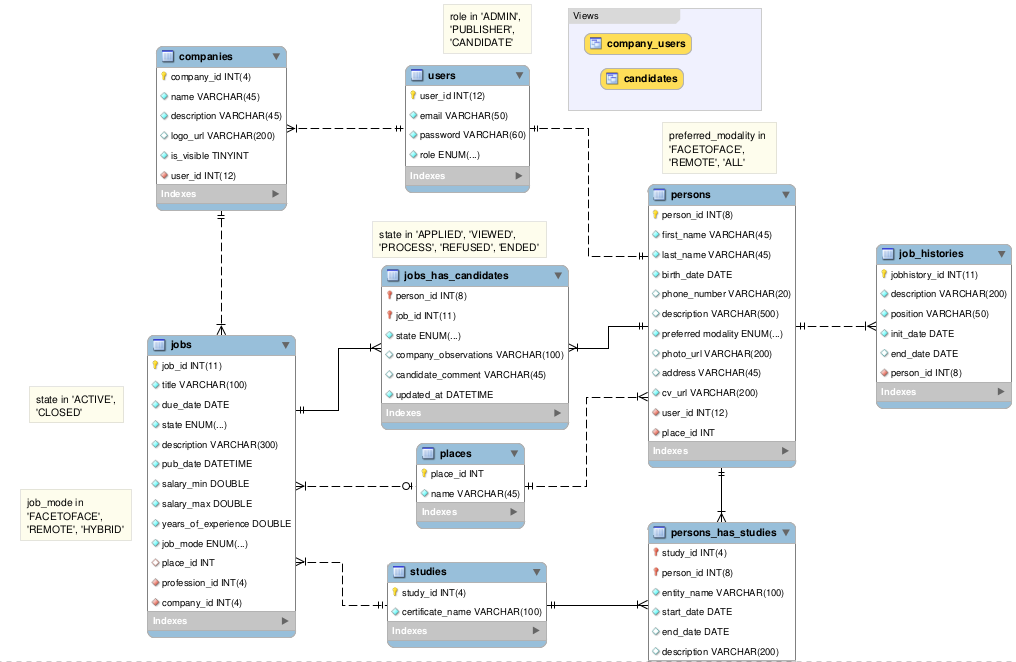
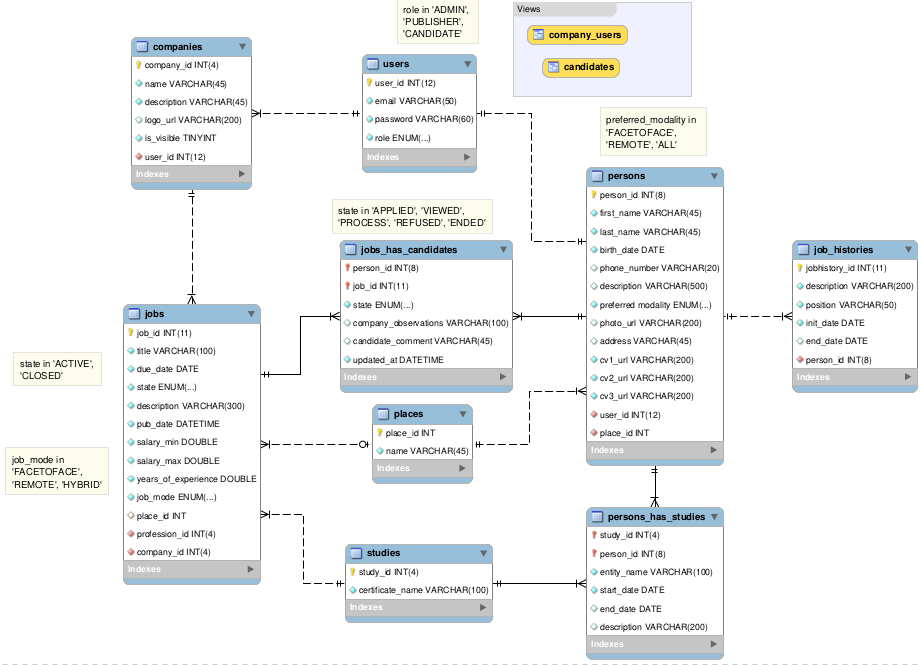
Login form and function using spring security default service

diff --git a/src/main/resources/templates/auth/login.html b/src/main/resources/templates/auth/login.html
@@ -1,0 +1,57 @@
+<!DOCTYPE html>
+<html xmlns:th="http://www.thymeleaf.org">
+<head>
+    <meta charset="UTF-8">
+    <title>Log in with your account</title>
+    <link th:rel="stylesheet" th:href="@{/webjars/bootstrap/5.3.0/css/bootstrap.min.css}" />
+    <link th:rel="stylesheet" th:href="@{/css/styles.css}" />
+</head>
+<body>
+    <nav class="navbar navbar-expand-lg bg-body-tertiary mt-2">
+        <div class="container-fluid">
+            <a class="navbar-brand" href="/">
+                <img src="/images/logoempexp.png" alt="EmpleoExprés Logo">
+            </a>
+            <button class="navbar-toggler" type="button" data-bs-toggle="collapse" data-bs-target="#navbarSupportedContent" aria-controls="navbarSupportedContent" aria-expanded="false" aria-label="Toggle navigation">
+                <span class="navbar-toggler-icon"></span>
+            </button>
+            <div class="d-flex" id="navbarSupportedContent">
+                <ul class="navbar-nav me-auto mb-2 mb-lg-0">
+                    <li class="nav-item">
+                        <a class="nav-link" aria-current="page" href="/about">Acerca de</a>
+                    </li>
+                    <li class="nav-item">
+                        <a class="nav-link" href="/search">Empleos</a>
+                    </li>
+                    <li class="nav-item">
+                        <a class="nav-link" href="/support">Soporte</a>
+                    </li>
+                    <li class="nav-item mx-2">
+                        <a class="btn btn-outline-info" href="/signin">Registrar</a>
+                    </li>
+                </ul>
+            </div>
+        </div>
+    </nav>
+    <div class="container-fluid text-bg-info p-5">
+        <div class="card text-bg-light col-md-6 my-5 offset-md-3 p-5">
+            <div class="card-body">
+                <form method="POST" th:action="@{/login}" class="my-form">
+                    <h2 class="text-center mb-3">Iniciar sesión</h2>
+                    <!-- $ variables @ links -->
+                    <div th:class="'form-group text-center'+${error != null ? ' '+'has-error' : ''}">
+                        <span class="text-primary" th:text="${message}" th:if="${message!=null}"></span>
+                        <input name="email" type="text" class="form-control mb-3" placeholder="Email" autofocus="true" />
+                        <input name="password" type="password" class="form-control mb-3" placeholder="Password" />
+                        <span class="text-danger d-block mb-3" th:text="${error}" th:if="${error!=null}"></span>
+                        <input type="hidden" th:name="${_csrf.parameterName}" th:value="${_csrf.token}" />
+                        <button class="btn btn-lg btn-primary" type="submit">Log In</button>
+                    </div> <!-- https://www.baeldung.com/spring-security-remember-me -->
+                </form>
+            </div>
+        </div>
+    </div>
+
+    <script th:src="@{/webjars/bootstrap/5.3.0/js/bootstrap.min.js}"></script>
+</body>
+</html>

diff --git a/src/main/resources/templates/index.html b/src/main/resources/templates/index.html
@@ -3,8 +3,8 @@
 <head>
     <meta charset="UTF-8">
     <title>Index</title>
-    <link th:rel="stylesheet" th:href="@{/webjars/bootstrap/5.3.0/css/bootstrap.min.css} "/>
-    <link rel="stylesheet" href="/css/styles.css">
+    <link th:rel="stylesheet" th:href="@{/webjars/bootstrap/5.3.0/css/bootstrap.min.css}" />
+    <link th:rel="stylesheet" th:href="@{/css/styles.css}" />
     <!-- CDN for testing
     <link href="https://cdn.jsdelivr.net/npm/bootstrap@5.3.0/dist/css/bootstrap.min.css" rel="stylesheet" integrity="sha384-9ndCyUaIbzAi2FUVXJi0CjmCapSmO7SnpJef0486qhLnuZ2cdeRhO02iuK6FUUVM" crossorigin="anonymous">
     -->

diff --git a/src/main/java/pra/lue11/empleoexpres/model/Person.java b/src/main/java/pra/lue11/empleoexpres/model/Person.java
@@ -1,0 +1,58 @@
+package pra.lue11.empleoexpres.model;
+
+import com.fasterxml.jackson.annotation.JsonIgnore;
+import com.fasterxml.jackson.annotation.JsonProperty;
+import jakarta.persistence.*;
+import lombok.AllArgsConstructor;
+import lombok.Getter;
+import lombok.NoArgsConstructor;
+import lombok.Setter;
+import pra.lue11.empleoexpres.model.enums.JobModality;
+
+import java.util.Date;
+
+/**
+ * @author luE11 on 18/07/23
+ */
+@Entity
+@Table(name = "persons")
+@Getter
+@Setter
+@AllArgsConstructor
+@NoArgsConstructor
+public class Person {
+    @Id
+    @Column(name = "person_id")
+    @GeneratedValue(strategy = GenerationType.IDENTITY)
+    @JsonProperty(access = JsonProperty.Access.READ_ONLY)
+    protected Integer id;
+    @Column(name = "first_name", nullable = false, length = 45)
+    protected String firstName;
+    @Column(name = "last_name", nullable = false, length = 45)
+    protected String lastName;
+    @Column(name = "birth_date", nullable = false)
+    protected Date birthDate;
+    @Column(name = "phone_number", length = 20)
+    protected String phoneNumber;
+    @Column(length = 500)
+    protected String description;
+    @Enumerated(value = EnumType.STRING)
+    @Column(name = "preferred_modality", nullable = false)
+    protected JobModality preferredModality;
+    @Column(name = "photo_url", length = 200)
+    protected String photoUrl;
+    @Column(length = 45)
+    protected String address;
+    @Column(length = 200)
+    protected String cv1Url;
+    @Column(length = 200)
+    protected String cv2Url;
+    @Column(length = 200)
+    protected String cv3Url;
+
+    @JsonIgnore
+    @OneToOne
+    @JoinColumn(name = "user_id", referencedColumnName = "user_id", nullable = false)
+    protected User user;
+
+}

diff --git a/src/main/java/pra/lue11/empleoexpres/config/UserDetailsServiceImpl.java b/src/main/java/pra/lue11/empleoexpres/config/UserDetailsServiceImpl.java
@@ -1,0 +1,33 @@
+package pra.lue11.empleoexpres.config;
+
+import org.springframework.beans.factory.annotation.Autowired;
+import org.springframework.security.core.GrantedAuthority;
+import org.springframework.security.core.authority.SimpleGrantedAuthority;
+import org.springframework.security.core.userdetails.UserDetails;
+import org.springframework.security.core.userdetails.UserDetailsService;
+import org.springframework.security.core.userdetails.UsernameNotFoundException;
+import org.springframework.stereotype.Service;
+import org.springframework.transaction.annotation.Transactional;
+import pra.lue11.empleoexpres.model.User;
+import pra.lue11.empleoexpres.service.AuthService;
+
+import java.util.HashSet;
+import java.util.Set;
+
+@Service
+public class UserDetailsServiceImpl implements UserDetailsService {
+
+    @Autowired
+    private AuthService authService;
+
+    @Override
+    @Transactional(readOnly = true)
+    public UserDetails loadUserByUsername(String username) throws UsernameNotFoundException {
+        User user = authService.findUserByEmail(username)
+        		.orElseThrow(() -> new UsernameNotFoundException("User with email: "+ username + "was not found"));
+        Set<GrantedAuthority> grantedAuthorities = new HashSet<>();
+            grantedAuthorities.add(new SimpleGrantedAuthority(user.getRole().getRoleName()));
+        return new org.springframework.security.core.userdetails.User(user.getEmail(), user.getPassword(),
+            grantedAuthorities);
+    }
+}

diff --git a/src/main/java/pra/lue11/empleoexpres/controller/AuthController.java b/src/main/java/pra/lue11/empleoexpres/controller/AuthController.java
@@ -1,0 +1,48 @@
+package pra.lue11.empleoexpres.controller;
+
+import lombok.AllArgsConstructor;
+import org.springframework.stereotype.Controller;
+import org.springframework.ui.Model;
+import org.springframework.web.bind.annotation.GetMapping;
+import org.springframework.web.bind.annotation.RequestParam;
+import pra.lue11.empleoexpres.model.User;
+import pra.lue11.empleoexpres.service.AuthService;
+
+import java.util.Optional;
+
+/**
+ * @author luE11 on 18/07/23
+ */
+@Controller
+@AllArgsConstructor
+public class AuthController {
+
+    private final String LOGIN_TEMPLATE = "auth/login";
+    private final String SIGNIN_TEMPLATE = "auth/signin";
+
+    private AuthService authService;
+
+    @GetMapping(value = "/login")
+    public String login(Model model, @RequestParam() Optional<String> error,
+                        @RequestParam() Optional<String> logout) {
+        if (error.isPresent())
+            model.addAttribute("error", "Your email and/or password are invalid.");
+
+        if (logout.isPresent())
+            model.addAttribute("message", "You have been logged out successfully.");
+
+        return LOGIN_TEMPLATE;
+    }
+
+    /**
+     * Change user to candidate/company
+     * @param model
+     * @return
+     */
+    @GetMapping(value = "/register")
+    public String showRegisterForm(Model model) {
+        model.addAttribute("user", new User());
+        return SIGNIN_TEMPLATE;
+    }
+
+}

diff --git a/src/main/java/pra/lue11/empleoexpres/config/WebSecurityConfig.java b/src/main/java/pra/lue11/empleoexpres/config/WebSecurityConfig.java
@@ -17,8 +17,8 @@ import org.springframework.security.web.SecurityFilterChain;
 @EnableWebSecurity
 @EnableMethodSecurity(securedEnabled = true, proxyTargetClass = true)
 public class WebSecurityConfig {
-    //@Autowired
-    //private UserDetailsService userDetailsService;
+    @Autowired
+    private UserDetailsService userDetailsService;
 
     @Bean
     BCryptPasswordEncoder bCryptPasswordEncoder() {
@@ -31,7 +31,7 @@ public class WebSecurityConfig {
             .authorizeHttpRequests(authorizationManagerRequestMatcherRegistry -> {
                 authorizationManagerRequestMatcherRegistry.requestMatchers("/webjars/**", "/js/**",
                                 "/css/**", "/images/**", "/register", "/", "/about/",
-                                "/search/**").permitAll()
+                                "/search/**", "/login", "/register").permitAll()
                     .anyRequest().authenticated();
             })
             .formLogin(login -> login
@@ -49,6 +49,6 @@ public class WebSecurityConfig {
 
     @Autowired
     public void configureGlobal(AuthenticationManagerBuilder auth) throws Exception {
-        //auth.userDetailsService(userDetailsService).passwordEncoder(new BCryptPasswordEncoder());
+        auth.userDetailsService(userDetailsService).passwordEncoder(new BCryptPasswordEncoder());
     }
 }

diff --git a/src/main/java/pra/lue11/empleoexpres/model/User.java b/src/main/java/pra/lue11/empleoexpres/model/User.java
@@ -1,0 +1,46 @@
+package pra.lue11.empleoexpres.model;
+
+import com.fasterxml.jackson.annotation.JsonIgnore;
+import com.fasterxml.jackson.annotation.JsonProperty;
+import jakarta.persistence.*;
+import lombok.AllArgsConstructor;
+import lombok.Getter;
+import lombok.NoArgsConstructor;
+import lombok.Setter;
+import pra.lue11.empleoexpres.model.enums.UserRole;
+
+/**
+ * @author luE11 on 17/07/23
+ */
+@Entity
+@Table(name = "users")
+@Getter
+@Setter
+@AllArgsConstructor
+@NoArgsConstructor
+public class User {
+    @Id
+    @Column(name = "user_id")
+    @GeneratedValue(strategy = GenerationType.IDENTITY)
+    @JsonProperty(access = JsonProperty.Access.READ_ONLY)
+    protected Integer id;
+    @Column(length = 50, unique = true, nullable = false)
+    protected String email;
+    @Column(length = 60, nullable = false)
+    protected String password;
+    @Enumerated(EnumType.STRING)
+    @Column(nullable = false)
+    protected UserRole role;
+
+    @OneToOne(mappedBy = "user")
+    @JsonIgnore
+    protected Person person;
+
+    @Override
+    public String toString() {
+        return "User{" +
+                "email='" + email + '\'' +
+                ", role=" + role.getRoleName() +
+                '}';
+    }
+}

diff --git a/src/main/java/pra/lue11/empleoexpres/service/AuthService.java b/src/main/java/pra/lue11/empleoexpres/service/AuthService.java
@@ -1,0 +1,22 @@
+package pra.lue11.empleoexpres.service;
+
+import lombok.AllArgsConstructor;
+import org.springframework.stereotype.Service;
+import pra.lue11.empleoexpres.model.User;
+import pra.lue11.empleoexpres.repository.UserRepository;
+
+import java.util.Optional;
+
+/**
+ * @author luE11 on 17/07/23
+ */
+@AllArgsConstructor
+@Service
+public class AuthService {
+    private UserRepository userRepository;
+
+    public Optional<User> findUserByEmail(String email){
+        return userRepository.findByEmail(email);
+    }
+
+}

diff --git a/src/main/java/pra/lue11/empleoexpres/repository/UserRepository.java b/src/main/java/pra/lue11/empleoexpres/repository/UserRepository.java
@@ -1,0 +1,16 @@
+package pra.lue11.empleoexpres.repository;
+
+import org.springframework.data.jpa.repository.JpaRepository;
+import org.springframework.data.repository.query.Param;
+import pra.lue11.empleoexpres.model.User;
+
+import java.util.Optional;
+
+/**
+ * @author luE11 on 17/07/23
+ */
+public interface UserRepository extends JpaRepository<User, Integer> {
+
+    Optional<User> findByEmail(@Param("email") String email);
+
+}

diff --git a/src/main/java/pra/lue11/empleoexpres/model/enums/UserRole.java b/src/main/java/pra/lue11/empleoexpres/model/enums/UserRole.java
@@ -1,0 +1,18 @@
+package pra.lue11.empleoexpres.model.enums;
+
+/**
+ * @author luE11 on 17/07/23
+ */
+public enum UserRole {
+    ADMIN("ADMIN"), CANDIDATE("CANDIDATE"), PUBLISHER("PUBLISHER");
+
+    final String roleName;
+
+    UserRole(String roleName) {
+        this.roleName = roleName;
+    }
+
+    public String getRoleName() {
+        return roleName;
+    }
+}

diff --git a/src/main/java/pra/lue11/empleoexpres/model/enums/JobModality.java b/src/main/java/pra/lue11/empleoexpres/model/enums/JobModality.java
@@ -1,0 +1,18 @@
+package pra.lue11.empleoexpres.model.enums;
+
+/**
+ * @author luE11 on 17/07/23
+ */
+public enum JobModality {
+    ALL("ALL"), FACETOFACE("FACETOFACE"), REMOTE("REMOTE");
+
+    final String modality;
+
+    JobModality(String modality) {
+        this.modality = modality;
+    }
+
+    public String getModality() {
+        return modality;
+    }
+}

diff --git a/src/main/java/pra/lue11/empleoexpres/service/ServiceInterface.java b/src/main/java/pra/lue11/empleoexpres/service/ServiceInterface.java
@@ -1,0 +1,16 @@
+package pra.lue11.empleoexpres.service;
+
+import java.util.List;
+
+/**
+ * @author luE11 on 18/07/23
+ */
+public interface ServiceInterface <I, T> {
+
+    public T insert(T entity);
+    public T findById(I id);
+    public List<T> getAll();
+    public T update(I id, T entity);
+    public boolean delete(I id);
+
+}
